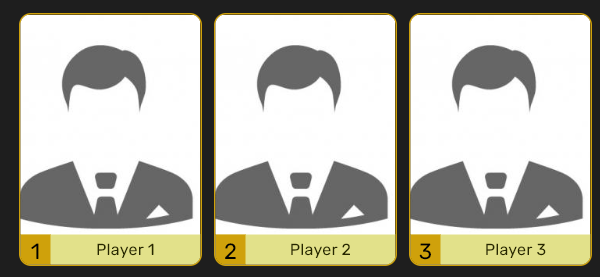
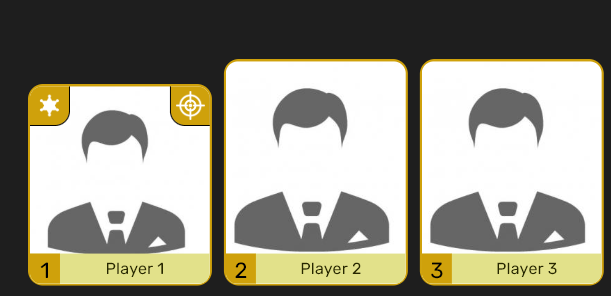
Enhanced animations. Added more clean role and state assets

diff --git a/lib/hud.dart b/lib/hud.dart
@@ -67,7 +67,7 @@ class _OverlayScreenState extends State<OverlayScreen> with WindowListener {
 
   Map<String, ColorScheme> roleSchemes = {
     'civ': civilianScheme,
-    'star': sheriffScheme,
+    'sheriff': sheriffScheme,
     'don': donScheme,
     'gun': gunScheme,
   };
@@ -110,8 +110,8 @@ class _OverlayScreenState extends State<OverlayScreen> with WindowListener {
     setState(() {
       cardHeight =  windowSize.height / 5.76;
       cardWidth =  windowSize.width / 14.2;
-      innerBox = cardWidth / 6.5;
-      outerBox = cardWidth / 4;
+      innerBox = cardWidth / 6;
+      outerBox = cardWidth / 4.5;
       fontScale = innerBox / 30.0;
     });
   }
@@ -210,23 +210,50 @@ class _OverlayScreenState extends State<OverlayScreen> with WindowListener {
   // Widget getters
   Widget getRole(int index) {
     if (roles[index] != 'civ') {
-      return ContainerWithShadow(
-        colorScheme: roleSchemes[roles[index]],
+      return Container(
+        padding: EdgeInsets.all(5),
         height: outerBox,
         width: outerBox,
-        child: Container(padding: EdgeInsets.all(5), child: Image.asset('assets/${roles[index]}.png', fit: BoxFit.scaleDown, width: innerBox, height: innerBox))
-      );
+        decoration: BoxDecoration(
+          border: BoxBorder.fromLTRB(
+            right: BorderSide(
+              color: Theme.of(context).colorScheme.onPrimaryContainer,
+              width: 1,
+            ),
+            bottom: BorderSide(
+              color: Theme.of(context).colorScheme.onPrimaryContainer,
+              width: 1
+            )
+          ),
+          color: Theme.of(context).colorScheme.primaryContainer,
+          borderRadius: BorderRadius.only(bottomRight: Radius.circular(15))
+        ),
+        child: Image.asset('assets/${roles[index]}.png', fit: BoxFit.scaleDown, width: innerBox, height: innerBox));
     }
     return Container();
   }
 
   Widget getState(int index) {
     if (state[index] != 'sit') {
-      return ContainerWithShadow(
+      return Container(
+        padding: EdgeInsets.all(5),
         height: outerBox,
         width: outerBox,
-        child: Container(padding: EdgeInsets.all(5), child: Image.asset('assets/${state[index]}.png', fit: BoxFit.scaleDown, width: innerBox, height: innerBox))
-      );
+        decoration: BoxDecoration(
+          border: BoxBorder.fromLTRB(
+            left: BorderSide(
+              color: Theme.of(context).colorScheme.onPrimaryContainer,
+              width: 1,
+            ),
+            bottom: BorderSide(
+              color: Theme.of(context).colorScheme.onPrimaryContainer,
+              width: 1
+            )
+          ),
+          color: Theme.of(context).colorScheme.primaryContainer,
+          borderRadius: BorderRadius.only(bottomLeft: Radius.circular(15))
+        ),
+        child: Image.asset('assets/${state[index]}.png', fit: BoxFit.scaleDown, width: innerBox, height: innerBox));
     }
     return Container();
   }
@@ -285,12 +312,15 @@ class _OverlayScreenState extends State<OverlayScreen> with WindowListener {
                       ),
                       child: ClipRRect(
                         borderRadius: BorderRadius.circular(12),
-                        child: SizedBox(
-                          width: cardWidth,
-                          height: cardHeight,
-                          child: Stack(
-                            children: [
-                              ColorFiltered( colorFilter: isGrayscale[index]
+                        child: Stack(
+                          children: [
+                            AnimatedContainer(
+                              width: cardWidth,
+                              height: isMovedDown[index] ? cardHeight - 25 : cardHeight,
+                              duration: Duration(milliseconds: 600),
+                              curve: Curves.easeInOut,
+                              color: Theme.of(context).colorScheme.primaryContainer,
+                              child: ColorFiltered(colorFilter: isGrayscale[index]
                                 ? const ColorFilter.matrix(<double>[
                                     0.2126, 0.7152, 0.0722, 0, 0,
                                     0.2126, 0.7152, 0.0722, 0, 0,
@@ -299,29 +329,31 @@ class _OverlayScreenState extends State<OverlayScreen> with WindowListener {
                                   ])
                                 : const ColorFilter.mode(Colors.transparent, BlendMode.dst),
                                 child: getImage(index)),
-                              Positioned(top: cardHeight - innerBox, child: 
-                                SizedBox(child: Container(
-                                  alignment: Alignment.center,
-                                  height: innerBox,
-                                  width: cardWidth,
-                                  color: Theme.of(context).colorScheme.primary,
-                                  child: Row(children: [
-                                    FittedBox(fit: BoxFit.fill, child: Container(
-                                      width: innerBox,
-                                      height: innerBox,
-                                      alignment: Alignment.center,
-                                      color: Theme.of(context).colorScheme.primaryContainer,
-                                      child: Text('${index+1}', textAlign: TextAlign.center, style: Theme.of(context).textTheme.titleMedium!.copyWith(fontSize: fontScale*22, color: Theme.of(context).colorScheme.onPrimaryContainer)))
-                                    ),
-                                    Container(width: cardWidth - innerBox, child: Text(nicknames[index], textAlign: TextAlign.center, style: TextStyle(color: Theme.of(context).colorScheme.onPrimary, fontSize: fontScale*nickfont[index]), overflow: TextOverflow.clip, maxLines: 1))
-                                  ])
-                                ))
-                              ),
-                              Positioned(left: 7, top: 7, child: getRole(index)),
-                              Positioned(right: 7, top: 7, child: getState(index)),
-                            ],
-                          ),
-                        )
+                            ),
+                            AnimatedPositioned(
+                              top: (isMovedDown[index] ? cardHeight - 25 : cardHeight) - innerBox,
+                              duration: Duration(milliseconds: 600),
+                              curve: Curves.easeInOut,
+                              child: Container(
+                                alignment: Alignment.center,
+                                height: innerBox,
+                                width: cardWidth,
+                                color: Theme.of(context).colorScheme.primary,
+                                child: Row(children: [
+                                  FittedBox(fit: BoxFit.fill, child: Container(
+                                    width: innerBox,
+                                    height: innerBox,
+                                    alignment: Alignment.center,
+                                    color: Theme.of(context).colorScheme.primaryContainer,
+                                    child: Text('${index+1}', textAlign: TextAlign.center, style: Theme.of(context).textTheme.titleMedium!.copyWith(fontSize: fontScale*22, color: Theme.of(context).colorScheme.onPrimaryContainer)))
+                                  ),
+                                  Container(width: cardWidth - innerBox, child: Text(nicknames[index], textAlign: TextAlign.center, style: TextStyle(color: Theme.of(context).colorScheme.onPrimary, fontSize: fontScale*nickfont[index]), overflow: TextOverflow.clip, maxLines: 1))
+                                ])
+                            )),
+                            Positioned(left: 0, top: 0, child: getRole(index)),
+                            Positioned(right: 0, top: 0, child: getState(index)),
+                          ],
+                        ),
                       ),
                     ),
                   ),

diff --git a/lib/controls.dart b/lib/controls.dart
@@ -228,7 +228,7 @@ class _ControlsScreenState extends State<ControlsScreen> {
           )
         ),
         PlayerRole(index, 'civ'),
-        PlayerRole(index, 'star'),
+        PlayerRole(index, 'sheriff'),
         PlayerRole(index, 'gun'),
         PlayerRole(index, 'don'),
         Container(width: 200, height: 30,
